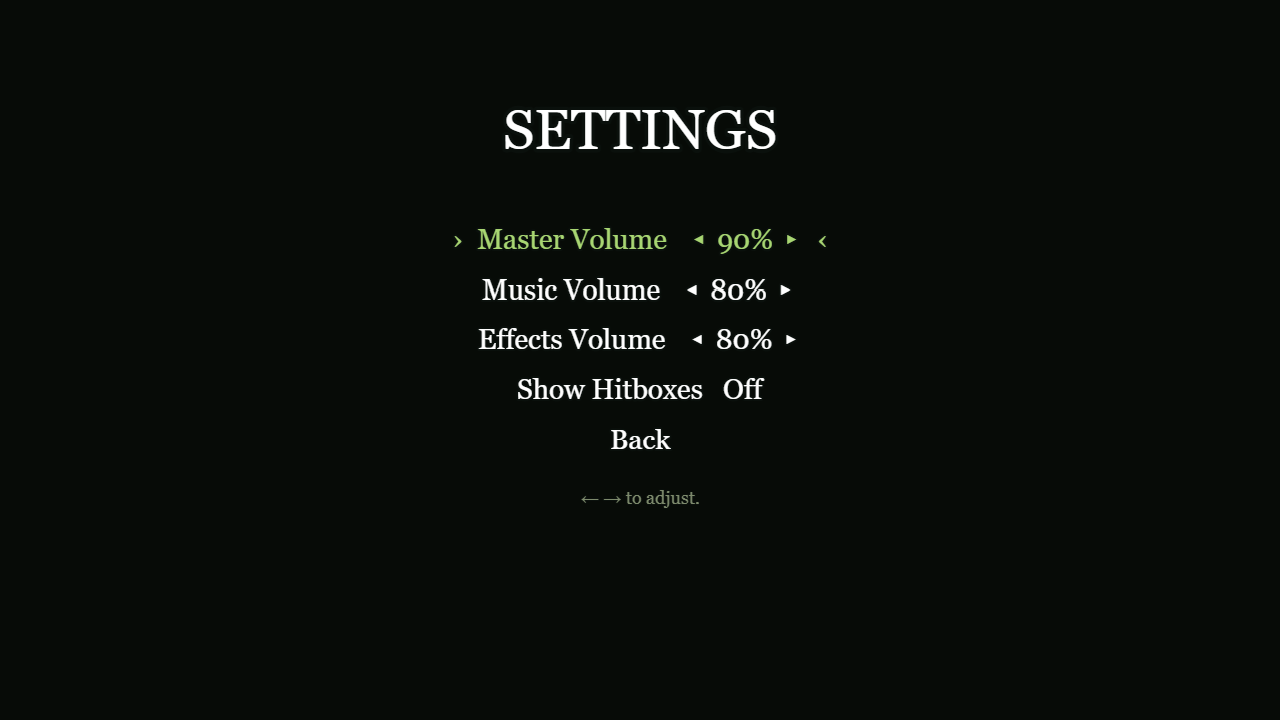
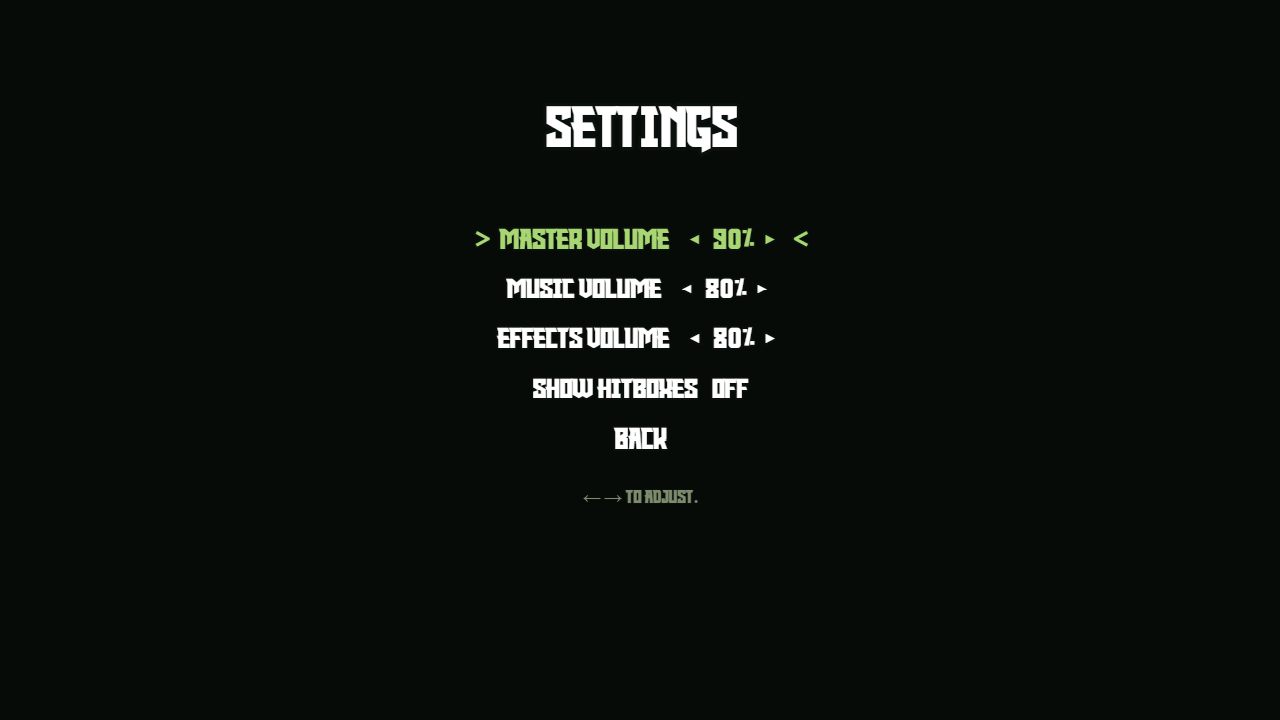
Use Knight Warrior font for UI text; record v0.1 approval
- FONT_CONFIG.useCustomFont switches between Knight Warrior and Georgia
- BootScene waits for the font before the menu draws
- ASCII markers replace glyphs the font draws blank
- Font is personal-use licensed; noted in ASSET_LICENSES.md

diff --git a/js/UIScenes.js b/js/UIScenes.js
@@ -11,6 +11,15 @@ const TITLE_CONFIG = {
   backgroundDim: 0.5892, // black over the menu background: 0 = no dim, 1 = full black
 };
 
+// UI font. Set useCustomFont to false to go back to the Georgia serif.
+// Knight Warrior is a personal-use demo font (Maknastudio); a commercial
+// licence is required before release, and the file is not committed to git.
+const FONT_CONFIG = {
+  useCustomFont: true,
+  custom: { family: "Knight Warrior", url: "sprites/FONTS/KnightWarrior.otf" },
+  fallback: '"Georgia", "Times New Roman", serif',
+};
+
 // Player settings, persisted independently of any future campaign save.
 // Fullscreen is mandatory, so it is not a setting.
 const SoulsSettings = {
@@ -49,7 +58,18 @@ const SoulsSettings = {
 };
 
 const UI = {
-  FONT: '"Georgia", "Times New Roman", serif',
+  get FONT() {
+    const { useCustomFont, custom, fallback } = FONT_CONFIG;
+    return useCustomFont ? `"${custom.family}", ${fallback}` : fallback;
+  },
+
+  // Resolves once the custom font is usable (or has failed, leaving the fallback).
+  fontReady: FONT_CONFIG.useCustomFont
+    ? new FontFace(FONT_CONFIG.custom.family, `url("${FONT_CONFIG.custom.url}")`)
+        .load()
+        .then((face) => document.fonts.add(face))
+        .catch((e) => console.warn("UI font failed to load, using fallback:", e))
+    : Promise.resolve(),
   COLORS: {
     bone: "#ffffff",
     accent: "#a8d672",
@@ -104,7 +124,7 @@ const UI = {
       texts.forEach((t, i) => {
         const item = items[i];
         const selected = i === index;
-        t.setText(selected ? `›  ${labelOf(item)}  ‹` : labelOf(item));
+        t.setText(selected ? `>  ${labelOf(item)}  <` : labelOf(item));
         t.setColor(item.disabled ? UI.COLORS.disabled : selected ? UI.COLORS.accent : UI.COLORS.bone);
       });
       hint.setText(items[index].hint || "");
@@ -174,6 +194,16 @@ const UI = {
   },
 };
 
+// Waits for the UI font so no text is drawn with the fallback first.
+class BootScene extends Phaser.Scene {
+  constructor() {
+    super("BootScene");
+  }
+  create() {
+    UI.fontReady.then(() => this.scene.start("MenuScene"));
+  }
+}
+
 class MenuScene extends Phaser.Scene {
   constructor() {
     super("MenuScene");
@@ -209,7 +239,7 @@ class MenuScene extends Phaser.Scene {
       });
     }
     this.title = this.add.sprite(width / 2, 170, "title").setScale(TITLE_CONFIG.scale).play("title_idle");
-    UI.text(this, width / 2, 270, "CHAPTER I  ·  FAMINE", 24, UI.COLORS.accent);
+    UI.text(this, width / 2, 270, "CHAPTER I  -  FAMINE", 24, UI.COLORS.accent);
 
     // A save system does not exist until Famine v0.2, so Continue is unavailable.
     this.menu = UI.menu(this, width / 2, 360, [
@@ -224,7 +254,7 @@ class MenuScene extends Phaser.Scene {
     ]);
 
     UI.text(this, width / 2, height - 40,
-      "↑ ↓ choose   ·   Enter / Z confirm   ·   Esc / P pause in game", 16, UI.COLORS.dim);
+      "↑ ↓ choose   |   Enter / Z confirm   |   Esc / P pause in game", 16, UI.COLORS.dim);
     UI.text(this, width - 90, height - 18, "build v0.1", 14, UI.COLORS.disabled);
     this.cameras.main.fadeIn(250, 0, 0, 0);
   }
@@ -349,7 +379,7 @@ class CreditsScene extends Phaser.Scene {
       this,
       width / 2,
       300,
-      "SOULS — an original dark-fantasy action platformer\n\n" +
+      "SOULS - an original dark-fantasy action platformer\n\n" +
         "Game, art and level design: the SOULS team\n" +
         "Engine: Phaser 3.80.1 (MIT License)\n" +
         "Levels authored with LDtk\n\n" +

diff --git a/js/main.js b/js/main.js
@@ -17,7 +17,7 @@ const config = {
     },
   },
   // Order is render order: PauseScene and SettingsScene draw above the game.
-  scene: [MenuScene, GameScene, PauseScene, SettingsScene, CreditsScene],
+  scene: [BootScene, MenuScene, GameScene, PauseScene, SettingsScene, CreditsScene],
 };
 const game = new Phaser.Game(config);
 

diff --git a/docs/DEVELOPMENT_STATUS.md b/docs/DEVELOPMENT_STATUS.md
@@ -1,6 +1,6 @@
 # Development status
 
-Current milestone: M1 — Famine. Current build: v0.1 Foundation. Build state: **REVIEW** (2026-11-13). Owner build approval: PENDING. Branch: `famine/v0.1-foundation` (not merged). Review packet: `docs/builds/v0.1/BUILD_REVIEW.md`. Next tasks after approval: v0.2 — M1.3 combat/death, M1.4 checkpoint/save, save-dependent M1.2 (Continue, retry, New Game confirmation).
+Current milestone: M1 — Famine. Current build: **v0.2 Combat & Survival — IN PROGRESS** (v0.1 Foundation DONE, owner approved 2026-11-13). Owner build approval for v0.2: PENDING. Branch: `famine/v0.1-foundation` (not merged). Review packet: `docs/builds/v0.1/BUILD_REVIEW.md`. Next tasks after approval: v0.2 — M1.3 combat/death, M1.4 checkpoint/save, save-dependent M1.2 (Continue, retry, New Game confirmation).
 
 ## Existing implementation (static inspection)
 Browser Phaser game, hero movement/sword/stamina, rat enemy, Famine artwork, modular randomized rooms, parallax, fullscreen overlay. See ARCHITECTURE.md. No live playtest or automated baseline executed for this kit.
@@ -72,3 +72,13 @@ The owner requested four changes:
 - Menu text is white.
 
 All four were implemented by the Lead directly (T1, small). `npm run test:smoke` gives 48/48 PASS, exit 0. Gate stays REVIEW, and owner approval is pending.
+
+## 2026-11-13 — v0.1 APPROVED, v0.2 started
+- Further v0.1 changes requested by the owner:
+  - Menu background dim set to pure black at 58.92% (`TITLE_CONFIG.backgroundDim`).
+  - Knight Warrior font for all UI text (`FONT_CONFIG.useCustomFont`). The file is committed on the owner's instruction; it carries a personal-use licence (see ASSET_LICENSES.md).
+- v0.1 approved by the owner ("lets proceed to v0.2").
+- Owner decisions for v0.2:
+  1. Checkpoints: chapter start only for now. Death returns to the Famine start room with the same layout. Physical checkpoints come in v0.4 (M1.7).
+  2. Reaching a checkpoint will refill HP and stamina, once physical checkpoints exist.
+  3. Death: a short "You have fallen" screen, then an automatic respawn.

diff --git a/docs/ASSET_LICENSES.md b/docs/ASSET_LICENSES.md
@@ -4,3 +4,6 @@ No new assets shipped in this kit. Existing assets require provenance verificati
 | Asset path | Author/source URL | Tool/model/version | License/terms | Attribution | Reference rights | Review status |
 |---|---|---|---|---|---|---|
 | Existing SOULS assets | Repository | Unknown | Verify | TBD | Verify | Pending |
+
+## Pending review
+- `sprites/FONTS/KnightWarrior.otf`: Knight Warrior by Maknastudio (2023). The embedded terms allow personal use only; promotional or commercial use requires a paid licence (https://maknastudio.com/product/knight-warrior/). Under trial as the UI font (`FONT_CONFIG` in js/UIScenes.js). On 2026-11-13 the owner chose to commit the font file to the repository after being told about these terms. A commercial licence is still required before any public or commercial release. Treat the repository as private while it contains this file.

diff --git a/docs/FAMINE_PLAYABLE_BUILDS.md b/docs/FAMINE_PLAYABLE_BUILDS.md
@@ -21,8 +21,8 @@ Milestone 1 only. These are six integration/review gates, not additional chapter
 Build labels are internal review labels, not published release tags. No gate passes solely from generated code/assets or a plan. Human playtest required for final milestone; interim owner reviews can use a playable build and evidence, but cannot replace final human testing. No automatic main merge.
 
 ## Build checklist (initial)
-- [ ] v0.1 Foundation — REVIEW (2026-11-13, awaiting owner approval; docs/builds/v0.1/BUILD_REVIEW.md)
-- [ ] v0.2 Combat & Survival — BACKLOG
+- [x] v0.1 Foundation — DONE (owner approved 2026-11-13; docs/builds/v0.1/BUILD_REVIEW.md)
+- [ ] v0.2 Combat & Survival — IN PROGRESS (2026-11-13)
 - [ ] v0.3 Parry Death & Enemies — BACKLOG
 - [ ] v0.4 Famine Expanded — BACKLOG
 - [ ] v0.5 The Hollow King — BACKLOG

diff --git a/docs/builds/v0.1/BUILD_REVIEW.md b/docs/builds/v0.1/BUILD_REVIEW.md
@@ -70,8 +70,8 @@ v0.2 Combat & Survival:
 - Enable the Retry and Continue items.
 
 ## Owner decision
-- **Decision:** PENDING
-- **Review date / reference:**
+- **Decision:** APPROVED (owner: "lets proceed to v0.2")
+- **Review date / reference:** 2026-11-13, in the Claude Code session, after change rounds 1-3 (fullscreen/title/white text; menu dim 58.92%; Knight Warrior font)
 
 ## Owner change requests — round 1 (2026-11-13) — done, back in REVIEW
 1. Removed the Fullscreen option from Settings, because fullscreen is mandatory.
